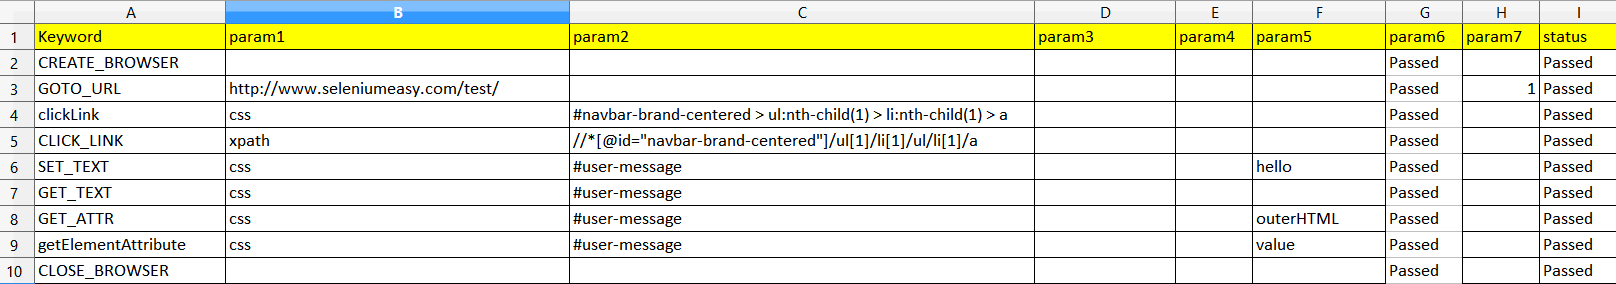
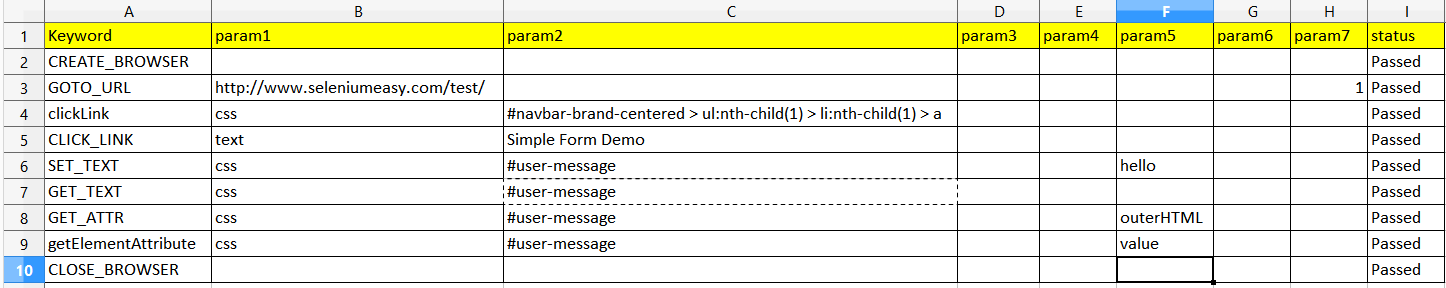
intermediate revision - fixed locator table missing "text", updtated sample TestCase.xls, README

Changed region(s): [[0.0, 0.0, 1.0, 1.0]]

diff --git a/jprotractor/src/main/java/org/utils/KeywordLibrary.java b/jprotractor/src/main/java/org/utils/KeywordLibrary.java
@@ -3,6 +3,8 @@ package org.utils;
 import java.io.File;
 import java.io.FileInputStream;
 import java.io.IOException;
+import java.lang.reflect.Constructor;
+import java.lang.reflect.InvocationTargetException;
 import java.lang.reflect.Method;
 import java.util.ArrayList;
 import java.util.Arrays;
@@ -223,8 +225,27 @@ public class KeywordLibrary {
 		} catch (NoSuchMethodException e) {
 			System.out.println("Execption (ignored): " + e.toString());
 		}
+		// phony method
+		Method methodMissing = null;
+		try {
+			// do we ever want to send correct arguments ?
+			@SuppressWarnings("rawtypes")
+			Class[] arguments = new Class[] { String.class, String.class };
+			Constructor methodConstructor = Method.class
+					.getDeclaredConstructor(arguments);
+			methodConstructor.setAccessible(true);
+			methodMissing = (Method) methodConstructor.newInstance();
+		} catch (NoSuchMethodException | IllegalAccessException
+				| InstantiationException | IllegalArgumentException
+				| InvocationTargetException e) {
+			System.out.println("Exception (ignored): " + e.toString());
+
+		}
+		// put synthetic selectors explicitly
+		locatorTable.put("text", methodMissing);
 	}
 
+	
 	public void callMethod(String keyword, Map<String, String> params) {
 		if (_object == null) {
 			try {

diff --git a/ngwebdriver/src/main/java/org/utils/KeywordLibrary.java b/ngwebdriver/src/main/java/org/utils/KeywordLibrary.java
@@ -211,6 +211,7 @@ public class KeywordLibrary {
 		} catch (NoSuchMethodException e) {
 			System.out.println("Exception (ignored): " + e.toString());
 		}
+		// phony method
 		Method methodMissing = null;
 		try {
 			// do we ever want to send correct arguments ?
@@ -226,6 +227,8 @@ public class KeywordLibrary {
 			System.out.println("Exception (ignored): " + e.toString());
 
 		}
+		// put synthetic selectors explicitly
+		locatorTable.put("text", methodMissing);
 		try {
 			locatorTable.put("binding",
 					ByAngular.class.getMethod("binding", String.class));
@@ -245,6 +248,7 @@ public class KeywordLibrary {
 					ByAngular.class.getMethod("partialButtonText", String.class));
 			locatorTable.put("repeater",
 					ByAngular.class.getMethod("repeater", String.class));
+			// put synthetic selectors explicitly
 			locatorTable.put("repeaterColumn", methodMissing);
 			locatorTable.put("repeaterCell", methodMissing);
 			locatorTable.put("repeaterRow", methodMissing);

diff --git a/README.md b/README.md
@@ -34,6 +34,41 @@ try {
   Object _object = _class.newInstance();
   _method.invoke(_object, params);
 ```
+Similar approach is used to define Selector strategies, most of which are static methods of the appropriate core  Selenium class:
+```java
+    locatorTable.put("className",
+        By.class.getMethod("className", String.class));
+    locatorTable.put("css", By.class.getMethod("cssSelector", String.class));
+    locatorTable.put("id", By.class.getMethod("id", String.class));
+    locatorTable.put("linkText",
+        By.class.getMethod("linkText", String.class));
+    locatorTable.put("name", By.class.getMethod("name", String.class));
+    locatorTable.put("tagName", By.class.getMethod("tagName", String.class));
+    locatorTable.put("xpath", By.class.getMethod("xpath", String.class));
+```
+
+with few "synthetic" strategies, notably  the __TEXT__:
+
+```java
+// put synthetic selectors explicitly
+  locatorTable.put("text", methodMissing);
+```
+implemented e.g. through `xpath`:
+
+```java
+  String amendedSelectorValue = String.format(
+      "//%s[contains(normalize-space(text()),'%s')]",
+      (selectorTagName != null) ? selectorTagName : "*", selectorValue);
+  _element = _wait.until(new ExpectedCondition<WebElement>() {
+    @Override
+    public WebElement apply(WebDriver d) {
+      return d.findElements(By.xpath(amendedSelectorValue)).stream()
+          .filter(o -> {
+            return (Boolean) (o.getText().contains(selectorValue));
+          }).findFirst().get();
+    }
+  });
+```
 
 The test step arguments are passed as hash of parameters.  That is done so one does not care about the method signature.
 Also the [AngularJS](https://angularjs.org/) introduced `NgBy` locators which fequently require (multiple) additional arguments like e.g.
